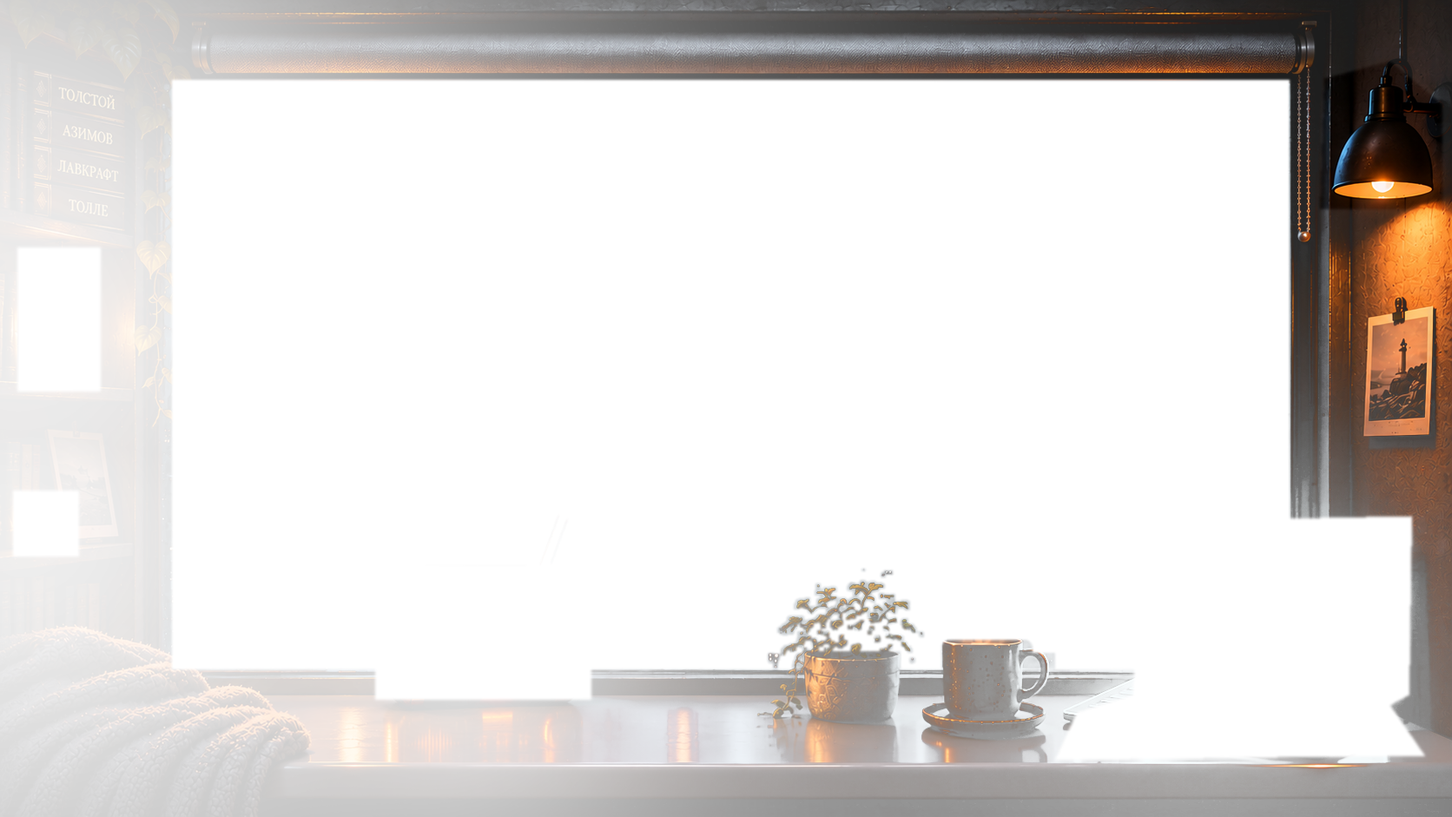
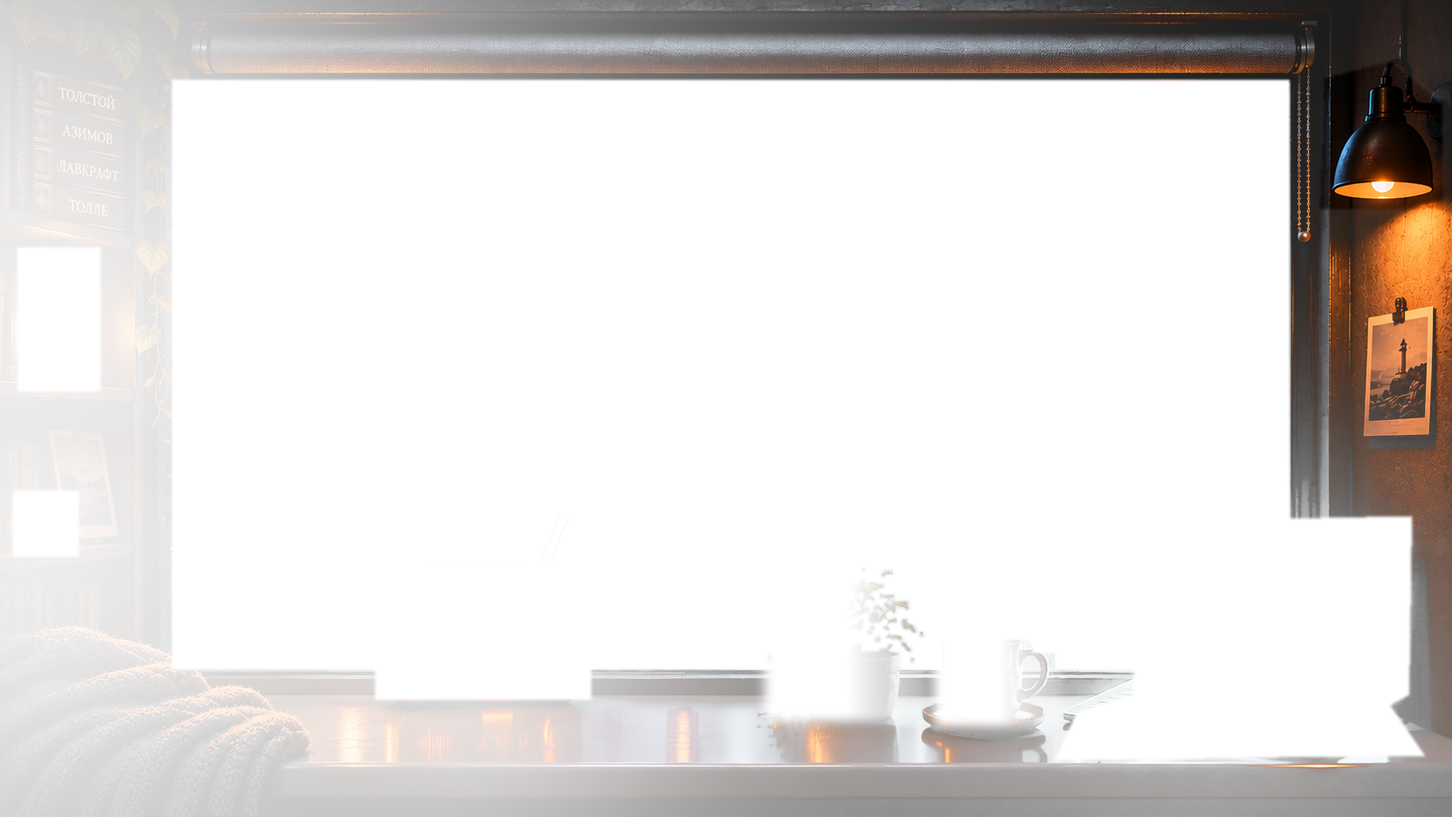
Капли по стеклу (звук), стекающая вода, панель часов по перспективе экрана + запасная погода, свет лампы на растении/кружке только справа

Changed region(s): [[0.4976, 0.7088, 0.7464, 0.8937]]

diff --git a/src/main.js b/src/main.js
@@ -2,7 +2,7 @@
 import * as THREE from 'three';
 import { SCENE, DEVICE_IDS, hitDevice } from './config.js';
 import { SOUND_LAYERS, loadSettings, saveSettings, toggleDevice, setAll, setRainLevel, rainParams } from './settings.js';
-import { clockText, weatherUrl, parseWeather } from './clock.js';
+import { clockText, weatherUrl, parseWeather, wttrUrl, parseWttr } from './clock.js';
 import { Ambience } from './audio.js';
 import { Tuner } from './radio.js';
 import { fitRect } from './fit.js';
@@ -57,11 +57,15 @@ const S = SCENE.screen;
 const scr = document.createElement('canvas'); scr.width = S.w; scr.height = S.h;
 const sctx = scr.getContext('2d');
 const scrTex = new THREE.CanvasTexture(scr); scrTex.minFilter = scrTex.magFilter = THREE.NearestFilter; scrTex.generateMipmaps = false; scrTex.colorSpace = THREE.NoColorSpace;
-const scrMesh = new THREE.Mesh(new THREE.PlaneGeometry(S.w, S.h), new THREE.ShaderMaterial({ vertexShader: vert, transparent: true, depthTest: false, depthWrite: false,
+// четырёхугольник панели из арта (наклон экрана): холст текста натягивается на него, как исходная панель
+const scrGeo = new THREE.BufferGeometry(); const Q = S.quad.map(([x, y]) => [x, H - y, 0]);
+scrGeo.setAttribute('position', new THREE.Float32BufferAttribute([...Q[3], ...Q[2], ...Q[1], ...Q[0]], 3));
+scrGeo.setAttribute('uv', new THREE.Float32BufferAttribute([0, 0, 1, 0, 1, 1, 0, 1], 2)); scrGeo.setIndex([0, 1, 2, 0, 2, 3]);
+const scrMesh = new THREE.Mesh(scrGeo, new THREE.ShaderMaterial({ vertexShader: vert, transparent: true, depthTest: false, depthWrite: false,
   uniforms: { map: { value: scrTex }, uOn: { value: 0 }, uTime: shared.uTime },
   fragmentShader: `varying vec2 vUv; uniform sampler2D map; uniform float uOn,uTime; void main(){ vec4 t=texture2D(map,vUv);
     float scan=.92+.08*step(.5,fract(vUv.y*${(S.h / 2).toFixed(1)})); gl_FragColor=vec4(t.rgb*scan*(.96+.04*sin(uTime*7.)), t.a*uOn); }` }));
-scrMesh.position.set(S.x + S.w / 2, H - (S.y + S.h / 2), 0); scrMesh.renderOrder = order++; scene.add(scrMesh);
+scrMesh.renderOrder = order++; scene.add(scrMesh);
 let weather = null, weatherAt = -1e9, weatherBusy = false, lastScr = '';
 function pixelText(text, x, y, size, color, align = 'left') { // текст без сглаживания — «пиксельный шрифт»
   const c = document.createElement('canvas'); c.width = S.w; c.height = size * 2; const g = c.getContext('2d');
@@ -74,31 +78,69 @@ function drawScreen(force = false) {
   if (!force && key === lastScr) return; lastScr = key;
   sctx.clearRect(0, 0, S.w, S.h);
   sctx.fillStyle = 'rgb(1,19,27)'; sctx.fillRect(0, 0, S.w, S.h);
-  sctx.strokeStyle = 'rgba(90,230,255,.35)'; sctx.strokeRect(1.5, 1.5, S.w - 3, S.h - 3); sctx.beginPath(); sctx.moveTo(3, 72.5); sctx.lineTo(S.w - 3, 72.5); sctx.stroke();
+  sctx.strokeStyle = 'rgba(90,230,255,.35)'; sctx.strokeRect(1.5, 1.5, S.w - 3, S.h - 3); sctx.beginPath(); sctx.moveTo(3, 68.5); sctx.lineTo(S.w - 3, 68.5); sctx.stroke();
   pixelText(c.colon ? c.time : c.time.replace(':', ' '), 0, 6, 34, '#7ff4ff', 'center');
   pixelText(c.date, 0, 44, 16, '#5fd6ea', 'center');
   if (settings.weather && weather) {
-    pixelText(`${SCENE.weather.city} ${weather.temp}`, 0, 77, 15, '#7ff4ff', 'center');
-    pixelText(weather.label, 0, 94, 13, '#4fb8cc', 'center');
-  } else pixelText(settings.weather ? '…' : '', 0, 82, 15, '#4fb8cc', 'center');
+    pixelText(`${SCENE.weather.city} ${weather.temp}`, 0, 72, 15, '#7ff4ff', 'center');
+    pixelText(weather.label + (weather.old ? ' · ранее' : ''), 0, 88, 12, '#4fb8cc', 'center');
+  } else if (settings.weather) { pixelText(SCENE.weather.city, 0, 72, 15, '#7ff4ff', 'center'); pixelText(weatherBusy ? 'загрузка…' : 'нет связи', 0, 88, 12, '#4fb8cc', 'center'); }
   scrTex.needsUpdate = true;
 }
+const WKEY = 'rainroom.weather.v1';
+try { const c = JSON.parse(localStorage.getItem(WKEY) || 'null'); if (c?.temp) weather = { ...c, old: true }; } catch {} // последняя известная погода
+async function getJSON(u) { const ac = new AbortController(); const t = setTimeout(() => ac.abort(), 8000); try { return await (await fetch(u, { signal: ac.signal })).json(); } finally { clearTimeout(t); } }
 async function refreshWeather(now) {
-  if (!settings.weather || weatherBusy || !settings.devices.laptop || now - weatherAt < (weather ? 900 : 300)) return;
-  weatherBusy = true; weatherAt = now;
-  try { const r = await fetch(weatherUrl(SCENE.weather)); weather = parseWeather(await r.json()) || weather; } catch {}
+  if (!settings.weather || weatherBusy || !settings.devices.laptop || now - weatherAt < (weather && !weather.old ? 900 : 120)) return;
+  weatherBusy = true; weatherAt = now; drawScreen(true);
+  let w = null;
+  try { w = parseWeather(await getJSON(weatherUrl(SCENE.weather))); } catch {}
+  if (!w) try { w = parseWttr(await getJSON(wttrUrl(SCENE.weather))); } catch {} // запасной источник
+  if (w) { weather = w; try { localStorage.setItem(WKEY, JSON.stringify(w)); } catch {} }
   weatherBusy = false; drawScreen(true);
 }
 
 // ---------- 4. стекло: неон и молния (только по маске стекла — предметы на подоконнике впереди) ----------
 const glassTex = loadTex('./layers/masks/glass.png');
-const glassMat = fullPlane(`uniform sampler2D uBase,uGlass,uNeon; uniform float uFlash,uNeonF;
+const glassMat = fullPlane(`uniform sampler2D uBase,uGlass,uNeon; uniform float uFlash,uNeonF,uRun,uBeads;
+  const float GT=92., GB=771.;
+  // стекающая капля в колонке: у каждой колонки и каждого «захода» свои размер, путь, скорость; движение рывками (задержка-срыв)
+  void runner(vec2 p, float cw, float k, inout vec2 off, inout float wet, inout float hi){
+    float xs = p.x + k*23.7; float c = floor(xs/cw);
+    if (hash(vec2(c, k)) > uRun) return;
+    float period = 7. + 9.*hash(vec2(c, k+1.));
+    float tt = uTime/period + hash(vec2(c, k+2.)); float cyc = floor(tt), ph = fract(tt);
+    vec2 id = vec2(c, cyc + k*17.);
+    float r = mix(1.8, 5.5, hash(id)*hash(id+.3));
+    float n = 2. + floor(4.*hash(id+3.)); float g = ph - .85*sin(6.2832*ph*n)/(6.2832*n); // монотонно, с остановками
+    float y0 = mix(GT - 40., GT + 300., hash(id+4.)); float yh = mix(y0, GB + 30., g);
+    float x0 = (c + .25 + .5*hash(id+5.))*cw - k*23.7;
+    float mw = cw*.35*hash(id+6.);
+    #define XM(y) (x0 + (noise(vec2((y)*.013, c*3.1 + cyc)) - .5)*2.*mw)
+    float dx = p.x - XM(p.y);
+    vec2 d = vec2(dx, (p.y - yh)*.85); float dl = length(d);
+    float fade = smoothstep(0., .04, ph);
+    if (dl < r) { vec2 nn = d/r; off += -nn*r*1.8*fade; hi = max(hi, fade*max(0., 1. - length(nn - vec2(-.3, -.45))*1.4)); }
+    float tl = mix(80., 380., hash(id+7.));
+    float above = yh - p.y;
+    if (above > 0. && above < tl) { float wdt = max(.45, r*.3*(1. - above/tl)); float a = smoothstep(wdt + .6, wdt*.5, abs(dx)) * (1. - above/tl) * fade;
+      wet = max(wet, a); off.x += dx*.25*a; }
+  }
   void main(){
     vec2 p=world(); float gm=tex(uGlass,p).r; if(gm<.01) discard;
-    vec3 bg=tex(uBase,p).rgb; float nm=tex(uNeon,p).r; bg*=1.+nm*(uNeonF-1.);   // мягкое мерцание неона
+    vec2 off=vec2(0.); float wet=0., hi=0.;
+    runner(p, 52., 0., off, wet, hi); runner(p, 77., 1., off, wet, hi); runner(p, 113., 2., off, wet, hi);
+    // мелкие неподвижные капли: плавно растут и высыхают (без мерцания)
+    vec2 cs = vec2(17.); vec2 cc = floor((p + vec2(0., 7.)*floor(p.x/17.))/cs);
+    float hb = hash(cc + 9.1);
+    if (hb < uBeads) { vec2 ctr = (cc + .5 + (vec2(hash(cc+1.3), hash(cc+2.9)) - .5)*.7)*cs - vec2(0., 7.)*floor(p.x/17.);
+      float life = .5 + .5*sin(uTime*(.05 + .05*hash(cc+4.4)) + hb*40.); float r = (0.7 + 1.8*hash(cc+5.7))*smoothstep(.15, .6, life);
+      vec2 d = p - ctr; float dl = length(d); if (dl < r) { off += -d*1.6; hi = max(hi, .5*(1. - dl/r)); } }
+    vec3 bg=tex(uBase,p+off).rgb; float nm=tex(uNeon,p+off).r; bg*=1.+nm*(uNeonF-1.);   // мягкое мерцание неона
+    bg = bg*(1. + wet*.18) + wet*vec3(.02,.03,.04) + hi*vec3(.55,.65,.8)*.3;
     float lum=dot(bg,vec3(.3,.5,.2));
     gl_FragColor=vec4(bg+uFlash*(vec3(.30,.34,.48)*.35+bg*1.1+lum*.6),gm);        // молния
-  }`, { uBase: { value: baseTex }, uGlass: { value: glassTex }, uNeon: { value: loadTex('./layers/masks/neon.png') }, uFlash: { value: 0 }, uNeonF: { value: 1 } }).material.uniforms;
+  }`, { uBase: { value: baseTex }, uGlass: { value: glassTex }, uNeon: { value: loadTex('./layers/masks/neon.png') }, uFlash: { value: 0 }, uNeonF: { value: 1 }, uRun: { value: 0.3 }, uBeads: { value: 0.3 } }).material.uniforms;
 // дождь: тонкие (~1 px) штрихи, у каждой колонки свои случайные скорость, фаза, длина, позиция и прозрачность;
 // колонки независимы (нет пар и решётки), 3 слоя глубины, лёгкий наклон. Только по маске стекла.
 const rainU = { uRainDen: { value: 0.2 }, uRainLen: { value: 1 }, uRainSlant: { value: 0.04 }, uRainA: { value: 1 }, uRainT: { value: 0 }, uGlass: { value: glassTex } };
@@ -291,7 +333,7 @@ function frame(now) {
   rainShown = rainShown ?? rainLevel(); rainShown += (rainLevel() - rainShown) * (1 - Math.exp(-dt * 1.2)); // плавно, как в campfire
   const RP = rainParams(rainShown);
   rainU.uRainDen.value = RP.density; rainU.uRainLen.value = RP.length; rainU.uRainSlant.value = 0.03 + RP.slant * 0.15; rainU.uRainA.value = RP.alpha; rainU.uRainT.value = (rainU.uRainT.value + dt * RP.speed) % 1800; // ограничиваем фазу — без потери точности float
-  steamU.uWarm.value = dev.lamp.shown;
+  steamU.uWarm.value = dev.lamp.shown; glassMat.uRun.value = RP.run; glassMat.uBeads.value = RP.drops * 0.5;
   neonT -= dt; if (neonT <= 0) { neonF = Math.random() < 0.06 ? 0.8 + Math.random() * 0.1 : 1 + (Math.random() - 0.5) * 0.04; neonT = neonF < 0.95 ? 0.12 + Math.random() * 0.15 : 0.8 + Math.random() * 2.5; }
   glassMat.uNeonF.value += (neonF - glassMat.uNeonF.value) * Math.min(1, dt * 10);
   if (settings.thunder && clock >= nextThunder) { thunder(); nextThunder = clock + R.thunderEvery * (0.5 + Math.random()); }

diff --git a/src/audio.js b/src/audio.js
@@ -12,7 +12,7 @@ export class Ambience {
     this.master.connect(lim).connect(ctx.destination);
     this.noise = this.makeNoise(4); this.brown = this.makeBrown(6);
     this.bus = {};
-    for (const k of ['rain', 'thunder', 'room', 'fx']) { const g = ctx.createGain(); g.connect(this.master); this.bus[k] = g; }
+    for (const k of ['rain', 'glass', 'thunder', 'room', 'fx']) { const g = ctx.createGain(); g.connect(this.master); this.bus[k] = g; }
     // дождь по стеклу: две полосы шума — шелест (высокая) и мягкий «барабан» (средняя)
     const r1 = ctx.createBufferSource(); r1.buffer = this.noise; r1.loop = true;
     const hp = ctx.createBiquadFilter(); hp.type = 'highpass'; hp.frequency.value = 900;
@@ -34,7 +34,7 @@ export class Ambience {
     this.radioBp = ctx.createBiquadFilter(); this.radioBp.type = 'bandpass'; this.radioBp.frequency.value = 1800; this.radioBp.Q.value = 0.5;
     this.radioHiss = ctx.createGain(); this.radioHiss.gain.value = 0.04;
     st.connect(shp).connect(this.radioBp).connect(this.radioHiss).connect(this.radioOut); st.start();
-    this.nextTick = ctx.currentTime; this.nextRadioPop = ctx.currentTime;
+    this.nextTick = ctx.currentTime; this.nextTap = ctx.currentTime; this.burst = 0; this.nextRadioPop = ctx.currentTime;
     this.applyVolumes();
     this.timer = setInterval(() => this.schedule(), 100);
     if (ctx.state !== 'running') ctx.resume();
@@ -57,7 +57,25 @@ export class Ambience {
   schedule() {
     const ctx = this.ctx, t = ctx.currentTime, R = this.R || rainParams(this.rainLevel);
     while (this.nextTick < t + 0.2) { this.tick(this.nextTick); this.nextTick += -Math.log(1 - Math.random()) * R.tickInterval; }
+    // капли барабанят по стеклу: пуассоновский поток с «порывами» (то гуще, то реже)
+    while (this.nextTap < t + 0.2) {
+      this.tap(this.nextTap);
+      if (Math.random() < 0.02) this.burst = 0.6 + Math.random() * 1.5; this.burst = Math.max(0, this.burst - 0.05);
+      const rate = R.tapRate * (0.6 + 0.8 * Math.random()) * (1 + this.burst * 1.5);
+      this.nextTap += -Math.log(1 - Math.random()) / rate;
+    }
     this.tickRadio(t);
+  }
+  /** Удар капли по стеклу: короткий звонкий «тук» — резонанс стекла + щелчок. */
+  tap(t) {
+    const ctx = this.ctx; t = Math.max(t, ctx.currentTime); const big = Math.random() < 0.15; const amp = (big ? 0.05 : 0.018) * (0.4 + Math.random());
+    const o = ctx.createOscillator(); o.type = 'sine'; const f = (big ? 900 : 1600) + Math.random() * 2600; o.frequency.setValueAtTime(f, t); o.frequency.exponentialRampToValueAtTime(f * 0.82, t + 0.03);
+    const g = ctx.createGain(); g.gain.setValueAtTime(0.0001, t); g.gain.exponentialRampToValueAtTime(amp, t + 0.002); g.gain.exponentialRampToValueAtTime(0.0001, t + (big ? 0.06 : 0.025));
+    const src = ctx.createBufferSource(); src.buffer = this.noise; const bp = ctx.createBiquadFilter(); bp.type = 'bandpass'; bp.frequency.value = 4000 + Math.random() * 3000; bp.Q.value = 2;
+    const g2 = ctx.createGain(); g2.gain.setValueAtTime(amp * 0.8, t); g2.gain.exponentialRampToValueAtTime(0.0001, t + 0.012);
+    const pan = ctx.createStereoPanner?.(); if (pan) pan.pan.value = Math.random() * 1.8 - 0.9; const out = pan || this.bus.glass; if (pan) pan.connect(this.bus.glass);
+    o.connect(g).connect(out); src.connect(bp).connect(g2).connect(out);
+    o.start(t); o.stop(t + 0.08); src.start(t, Math.random() * 3, 0.02);
   }
   tick(t) { // капля по стеклу: короткий глухой «тик»
     const ctx = this.ctx, src = ctx.createBufferSource(); src.buffer = this.noise;

diff --git a/src/settings.js b/src/settings.js
@@ -1,11 +1,11 @@
 // Настройки: устройства, дождь, радио, громкости. Хранятся в localStorage.
 import { DEVICE_IDS } from './config.js';
 export const SETTINGS_KEY = 'rainroom.settings.v1';
-export const SOUND_LAYERS = [{ id: 'rain', name: 'дождь' }, { id: 'thunder', name: 'гром' }, { id: 'room', name: 'комната' }, { id: 'fx', name: 'щелчки' }];
+export const SOUND_LAYERS = [{ id: 'rain', name: 'дождь' }, { id: 'glass', name: 'капли по стеклу' }, { id: 'thunder', name: 'гром' }, { id: 'room', name: 'комната' }, { id: 'fx', name: 'щелчки' }];
 export const DEFAULT_SETTINGS = {
   devices: { lamp: false, lantern: false, radio: false, laptop: false },
   rainLevel: 0.5, thunder: true, fill: false, weather: true, radioVol: 0.5, radioStation: '',
-  volumes: { rain: 0.8, thunder: 0.7, room: 0.6, fx: 0.8 },
+  volumes: { rain: 0.8, glass: 0.45, thunder: 0.7, room: 0.6, fx: 0.8 },
 };
 const clamp01 = (x, d) => (x !== null && x !== '' && Number.isFinite(+x) ? Math.min(1, Math.max(0, +x)) : d);
 export function loadSettings(storage = globalThis.localStorage) {
@@ -37,6 +37,8 @@ export function rainParams(level) {
     soundGain: lerp(0.02, 0.09, l),      // шум дождя по стеклу
     soundCutoff: lerp(2500, 6500, l),
     tickInterval: lerp(0.35, 0.04, l),   // средний интервал отдельных капель по стеклу, с
+    tapRate: lerp(1.5, 28, l ** 1.2),    // удары капель по стеклу в секунду (в среднем)
+    run: lerp(0.12, 0.6, l),             // доля колонок со стекающей водой
     thunderEvery: lerp(150, 45, l),      // средний интервал грома, с
   };
 }

diff --git a/src/clock.js b/src/clock.js
@@ -26,3 +26,11 @@ export function parseWeather(j) {
   const t = Math.round(c.temperature_2m); const w = weatherLabel(c.weather_code);
   return { temp: `${t > 0 ? '+' : ''}${t}°C`, label: w.t, icon: w.i };
 }
+// запасной источник погоды (без ключа): wttr.in
+export function wttrUrl({ city }) { return `https://wttr.in/${encodeURIComponent(city === 'Анапа' ? 'Anapa' : city)}?format=j1`; }
+export function parseWttr(j) {
+  const c = j?.current_condition?.[0]; const t = Number(c?.temp_C); if (!c || !Number.isFinite(t)) return null;
+  const code = Number(c.weatherCode); const map = { 113: 0, 116: 2, 119: 3, 122: 3, 143: 45, 248: 45, 260: 45, 200: 95, 386: 95, 389: 95 };
+  const wmo = map[code] ?? (code >= 263 && code <= 359 ? 61 : code >= 362 ? 71 : 3);
+  return parseWeather({ current: { temperature_2m: t, weather_code: wmo } });
+}

diff --git a/test/settings.test.js b/test/settings.test.js
@@ -13,3 +13,5 @@ test('громкости и сила дождя ограничены 0..1', () =
 test('rainParams монотонны, звук тихий', () => { let p = rainParams(0);
   for (let l = 0.1; l <= 1.0001; l += 0.1) { const q = rainParams(l); assert.ok(q.drops >= p.drops && q.soundGain >= p.soundGain && q.tickInterval <= p.tickInterval && q.thunderEvery <= p.thunderEvery); p = q; }
   assert.ok(rainParams(1).soundGain <= 0.1); });
+test('капли по стеклу: своя громкость, тихо по умолчанию; частота растёт с дождём', () => { const s = loadSettings(mem()); assert.ok(s.volumes.glass > 0 && s.volumes.glass <= 0.5);
+  assert.ok(rainParams(1).tapRate > rainParams(0.5).tapRate && rainParams(0.5).tapRate > rainParams(0).tapRate); assert.ok(rainParams(1).run > rainParams(0).run); });

diff --git a/src/config.js b/src/config.js
@@ -10,7 +10,8 @@ export const SCENE = {
   },
   lanternFlame: [62, 372], candle: [50, 600],
   steam: [1145, 735],                          // верх кружки
-  screen: { x: 1462, y: 621, w: 132, h: 113 }, // панель часов/погоды на экране ноутбука
+  // панель часов/погоды на экране ноутбука: четырёхугольник исходной панели в арте (TL, TR, BR, BL) и размер холста текста
+  screen: { quad: [[1470, 621], [1608, 623], [1600, 726], [1461, 724]], w: 140, h: 104 },
   weather: { lat: 44.89, lon: 37.32, city: 'Анапа' },
 };
 export const DEVICE_IDS = Object.keys(SCENE.devices);

diff --git a/tools/make_layers.py b/tools/make_layers.py
@@ -79,6 +79,15 @@ H_ = {
   'lamp': hard(lambda d: d.polygon([(1525, 90), (1600, 70), (1660, 120), (1660, 240), (1520, 240)], 255)),
   'lantern': hard(lambda d: (d.rectangle((20, 285, 115, 450), 255), d.rectangle((15, 565, 90, 640), 255))),
 }
+# Растение и кружка в ON-кадре подсвечены слева (фонарь/радио). Лампа справа получает только их правую сторону.
+for (x0, y0, x1, y1) in [(880, 655, 1068, 832), (1075, 722, 1225, 838)]:
+    reg = np.zeros((H, W)); reg[y0:y1, x0:x1] = 1; reg = np.asarray(Image.fromarray((reg * 255).astype(np.uint8)).filter(ImageFilter.GaussianBlur(6)), float) / 255
+    cx = (x0 + x1) / 2; side = np.clip((xx - cx) / ((x1 - x0) / 2), 0, 1) * 0.7   # 0 слева … 0.7 у правого края
+    newlamp = share['lamp'] * side * reg + share['lamp'] * (1 - reg)
+    gain = share['lamp'] * (1 - side) * reg  # снятое с лампы → фонарю и радио пропорционально
+    share['lantern'] = share['lantern'] + gain * 0.55
+    share['radio'] = share['radio'] + gain * 0.45
+    share['lamp'] = newlamp
 for k, m in H_.items():  # предмет-источник: его пиксели только у него (экран ноутбука не светится от лампы)
     for j in share: share[j] = share[j] * (1 - m) + (m if j == k else 0)
 share = {k: v * (1 - gl) for k, v in share.items()}           # стекло рисует свой шейдер
@@ -94,4 +103,7 @@ mask = gl < 0.01
 print('all-on vs ON, mean |diff| (0..255) вне стекла:', round(np.abs(allon - B)[mask].mean(), 2), ' база OFF vs ON:', round(np.abs(A - B)[mask].mean(), 2))
 lamp_on = A + diff * S8['lamp'][..., None]
 scr = (slice(612, 740), slice(1330, 1600))
+for nm, (x0, y0, x1, y1) in [('растение', (880, 655, 1068, 832)), ('кружка', (1075, 722, 1225, 838))]:
+    cx = (x0 + x1) // 2; L_ = np.abs(lamp_on - A)[y0:y1, x0:cx].mean(); R_ = np.abs(lamp_on - A)[y0:y1, cx:x1].mean()
+    print(f'лампа одна: {nm} слева {L_:.1f} / справа {R_:.1f}')
 print('лампа одна: экран ноутбука, среднее отличие от OFF:', round(np.abs(lamp_on - A)[scr].mean(), 2))

diff --git a/docs/PLAYBOOK.md b/docs/PLAYBOOK.md
@@ -12,7 +12,7 @@
 - Все координаты (хотспоты, экран ноутбука, пар, город для погоды) — в `SCENE` в `src/config.js`.
 
 ## 3. Эффекты
-- Стекло: тонкие (~1 px) штрихи, независимые колонки со своими скоростью/фазой/длиной/прозрачностью, 3 слоя глубины, лёгкий наклон; маска стекла. Мягкий неон, молния. Учтите: в исходном арте уже нарисованы капли.
+- Стекло: тонкие (~1 px) штрихи, независимые колонки со своими скоростью/фазой/длиной/прозрачностью, 3 слоя глубины, лёгкий наклон; маска стекла. Мягкий неон, молния. Учтите: в исходном арте уже нарисованы капли. Стекающая вода: капли разного размера идут рывками по извилистым путям (3 слоя колонок), оставляют тонкие мокрые следы; мелкие капли плавно растут и высыхают.
 - Пар над кружкой, мерцание фонаря, «загорание» экрана. Пиковые состояния: `?rain=1&devices=all`, гроза — `?thunder=1` или `__rainroom.thunder(1)`.
 
 ## 4. Интерактив
@@ -20,7 +20,7 @@
 - Колесо над радио — станции, в остальном кадре — сила дождя. Клавиши 1–4 — устройства, M — звук, F — весь экран, стрелки — меню (пульт).
 
 ## 5. Звук
-- Процедурно: дождь по стеклу (две полосы шума + «тики» капель), далёкий гром, гул комнаты, щелчки; у каждого свой регулятор.
+- Процедурно: шум дождя, капли барабанят по стеклу (отдельный регулятор «капли по стеклу», частота растёт с силой дождя, порывы), гром, гул комнаты, щелчки.
 - Радио — `src/radio.js` из campfire без изменений (CORS-плеер через WebAudio + запасной). Уровни низкие, подбирать по отзыву владельца.
 
 ## 6. Станции
@@ -29,7 +29,7 @@
 ## 7. Интерфейс
 - Меню в круглой кнопке ☰, раскрывается при наведении, сворачивается через 5 с. Настройки — `src/settings.js` (localStorage `rainroom.settings.v1`).
 - Вписывание: по умолчанию contain (весь кадр 16:9, поля — размытое затемнённое продолжение), «Заполнить экран» — cover (`settings.fill`). Математика — `src/fit.js`. Скриншоты экранов: `node tools/fitshots.mjs`.
-- Ноутбук: живые часы/дата (ru) и погода Анапы с open-meteo (без ключа, раз в 15 мин), пиксельный шрифт.
+- Ноутбук: панель часов натянута на четырёхугольник исходной панели (`SCENE.screen.quad`). Погода: open-meteo → запасной wttr.in → последняя сохранённая; без связи — «нет связи».
 
 ## 8. Цикл правки
 1. Правка → `npm test` → `npm run build`.
